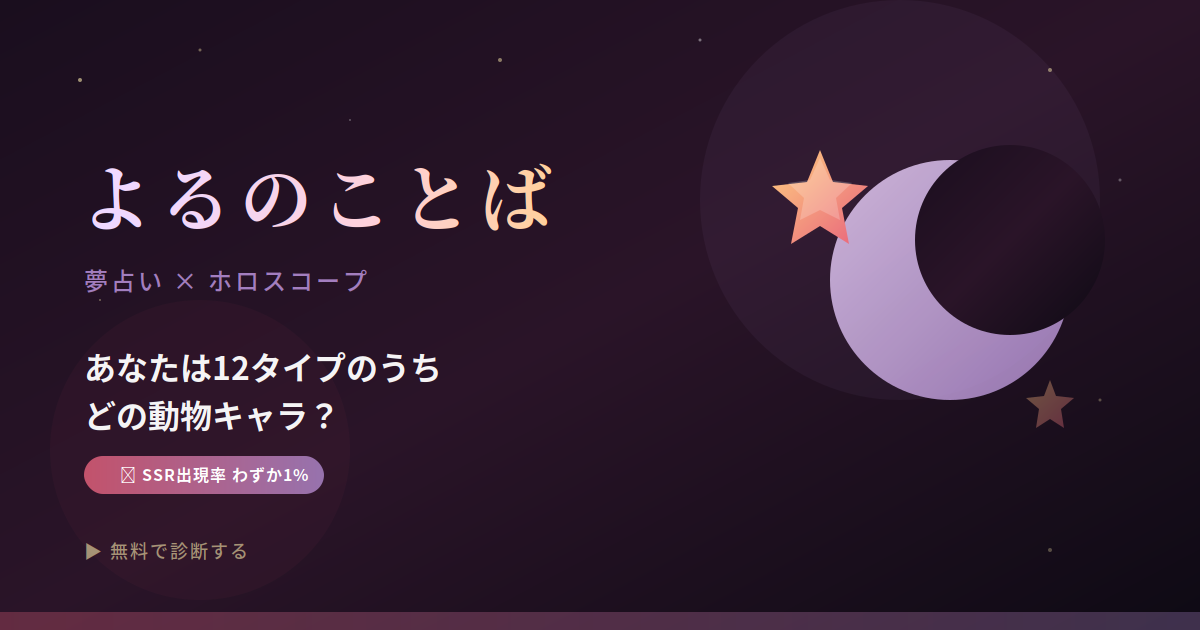
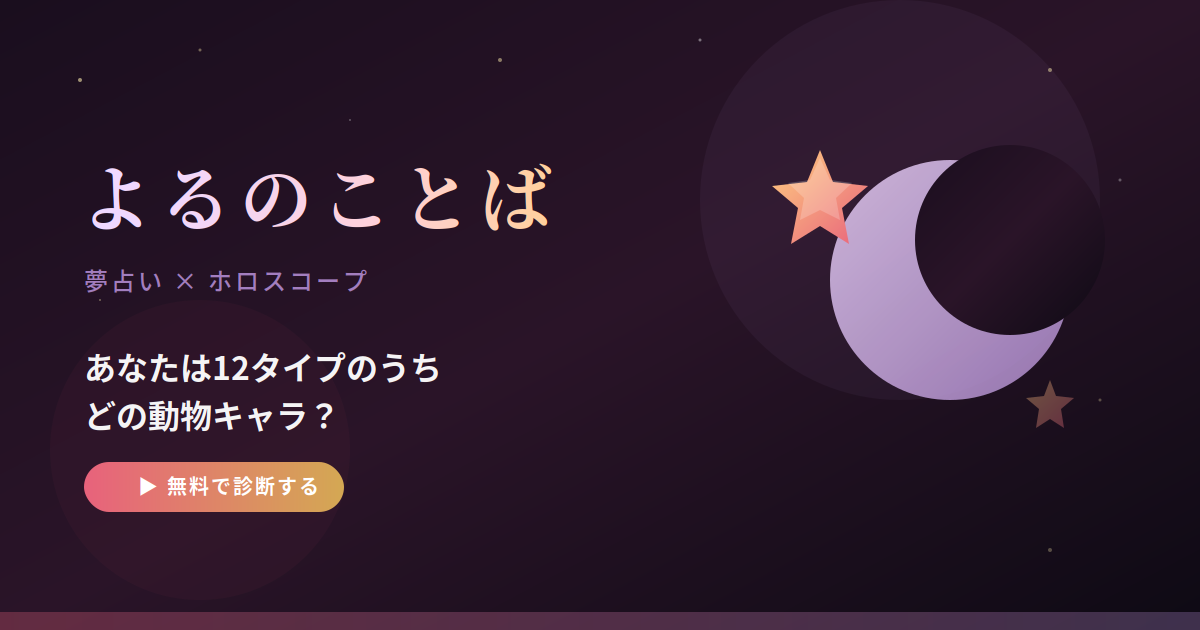
Add files via upload

Changed region(s): [[0.0617, 0.7238, 0.3083, 0.8143], [0.0617, 0.8444, 0.2158, 0.9048]]

diff --git a/index.html b/index.html
@@ -524,7 +524,17 @@ function App(){
   const btnStyle={borderRadius:14,border:"none",background:"var(--grad)",color:"#fff",fontSize:15,fontWeight:700,fontFamily:"Zen Maru Gothic, sans-serif",cursor:"pointer",letterSpacing:1};
   const btnOff={...btnStyle,background:"rgba(58,40,48,0.06)",color:"rgba(58,40,48,0.18)",cursor:"default"};
 
+  const isInAppBrowser=/Line|FBAN|FBAV|Instagram|Twitter/i.test(navigator.userAgent);
+  const [dismissInApp,setDismissInApp]=useState(false);
   return<div style={{minHeight:"100vh",background:"linear-gradient(180deg,#FFF5F0 0%,#FFF0EB 25%,#FFE8E0 50%,#FFF0EB 75%,#FFF5F0 100%)",fontFamily:"Zen Maru Gothic, sans-serif",color:"var(--t1)",WebkitFontSmoothing:"antialiased"}}>
+    {isInAppBrowser&&!dismissInApp&&<div style={{background:"linear-gradient(135deg,#E8627C,#B08ACF)",padding:"14px 20px",textAlign:"center",position:"sticky",top:0,zIndex:9999}}>
+      <p style={{fontSize:13,fontWeight:700,color:"#fff",marginBottom:6}}>⚠ アプリ内ブラウザでは一部機能が使えません</p>
+      <p style={{fontSize:11,color:"rgba(255,255,255,0.9)",marginBottom:10,lineHeight:1.6}}>Safari / Chrome で開くとプロフィール保存・通知が使えるよ</p>
+      <div style={{display:"flex",gap:8,justifyContent:"center"}}>
+        <button onClick={()=>{const url='https://yorunokotoba.vercel.app';if(/iPhone|iPad/.test(navigator.userAgent)){window.location.href=url}else{window.open(url)}}} style={{padding:"8px 20px",borderRadius:20,border:"none",background:"#fff",color:"#E8627C",fontSize:12,fontWeight:700,cursor:"pointer"}}>Safariで開く</button>
+        <button onClick={()=>setDismissInApp(true)} style={{padding:"8px 16px",borderRadius:20,border:"1px solid rgba(255,255,255,0.5)",background:"transparent",color:"#fff",fontSize:11,cursor:"pointer"}}>このまま使う</button>
+      </div>
+    </div>}
     <div style={{maxWidth:440,margin:"0 auto",padding:"0 20px"}}>
 
       <header className="fade-in" style={{textAlign:"center",paddingTop:36,paddingBottom:8,position:"relative"}}>
@@ -533,7 +543,7 @@ function App(){
             ?<svg viewBox="0 0 80 80" width={64} height={64}><defs><linearGradient id="moonH" x1="0%" y1="0%" x2="100%" y2="100%"><stop offset="0%" stopColor="#F0D8FF"/><stop offset="100%" stopColor="#B08ACF"/></linearGradient></defs><circle cx="40" cy="40" r="28" fill="url(#moonH)"/><circle cx="52" cy="34" r="22" fill="#FFF5F0"/><circle cx="22" cy="18" r="2" fill="#F5E6A8" opacity="0.6"/><circle cx="60" cy="58" r="1.5" fill="#F5E6A8" opacity="0.5"/><circle cx="16" cy="52" r="1" fill="#F5E6A8" opacity="0.4"/></svg>
             :<svg viewBox="0 0 80 80" width={64} height={64}><defs><linearGradient id="starH" x1="0%" y1="0%" x2="100%" y2="100%"><stop offset="0%" stopColor="#FFD080"/><stop offset="100%" stopColor="#E8627C"/></linearGradient></defs><polygon points="40,6 49,28 72,30 55,46 59,70 40,58 21,70 25,46 8,30 31,28" fill="url(#starH)"/><polygon points="40,14 46,28 60,30 50,40 52,55 40,48 28,55 30,40 20,30 34,28" fill="#fff" opacity="0.2"/></svg>
           }</div>
-          <h1 style={{fontSize:28,fontWeight:700,letterSpacing:4}}><span style={{background:"var(--grad2)",WebkitBackgroundClip:"text",WebkitTextFillColor:"transparent"}}>よるのことば</span></h1>
+          <h1 onClick={goHome} style={{fontSize:28,fontWeight:700,letterSpacing:4,cursor:"pointer"}}><span style={{background:"var(--grad2)",WebkitBackgroundClip:"text",WebkitTextFillColor:"transparent"}}>よるのことば</span></h1>
           <p style={{fontSize:13,color:"var(--t2)",marginTop:8,lineHeight:1.7}}>夢占い × ホロスコープで、あなたの今を読み解く</p>
         </div>
       </header>
@@ -661,7 +671,7 @@ function App(){
 
         <PremiumCTA style={{marginBottom:20}}/>
         <div className="slide-up-5" style={{display:"flex",gap:8,marginBottom:40}}>
-          <button className="hover-lift" onClick={goHome} style={{flex:1,padding:"15px 0",borderRadius:12,...btnStyle,fontSize:13}}>夢占いもやる</button>
+          <button className="hover-lift" onClick={()=>{goHome();setMode("dream");window.scrollTo(0,0)}} style={{flex:1,padding:"15px 0",borderRadius:12,...btnStyle,fontSize:13}}>夢占いもやる</button>
         </div>
       </>}
 
@@ -711,7 +721,7 @@ function App(){
 
         <PremiumCTA style={{marginBottom:20}}/>
         <div className="slide-up-5" style={{display:"flex",gap:8,marginBottom:40}}>
-          <button className="hover-lift" onClick={goHome} style={{flex:1,padding:"15px 0",borderRadius:12,...btnStyle,fontSize:13}}>もう一度占う</button>
+          <button className="hover-lift" onClick={()=>{goHome();setMode("fortune");window.scrollTo(0,0)}} style={{flex:1,padding:"15px 0",borderRadius:12,...btnStyle,fontSize:13}}>ホロスコープもやる</button>
         </div>
       </>}
 
@@ -795,6 +805,11 @@ function App(){
         <p style={{fontFamily:"Cormorant, serif",fontSize:14,color:"var(--t4)",letterSpacing:4,fontWeight:300}}>よるのことば</p>
         <p style={{fontSize:9,color:"var(--t4)",marginTop:6,opacity:0.5}}>© 2026</p>
       </footer>
+      {(page==="fortuneResult"||page==="dreamResult")&&<div style={{position:"fixed",bottom:24,left:"50%",transform:"translateX(-50%)",zIndex:999}}>
+        <button onClick={()=>{goHome();window.scrollTo(0,0)}} className="hover-lift" style={{padding:"12px 28px",borderRadius:24,border:"none",background:"var(--grad)",color:"#fff",fontSize:13,fontWeight:700,fontFamily:"Zen Maru Gothic, sans-serif",cursor:"pointer",boxShadow:"0 4px 20px rgba(232,98,124,0.3)",display:"flex",alignItems:"center",gap:6}}>
+          <span style={{fontSize:15}}>🏠</span> ホームに戻る
+        </button>
+      </div>}
     </div>
   </div>;
 }
